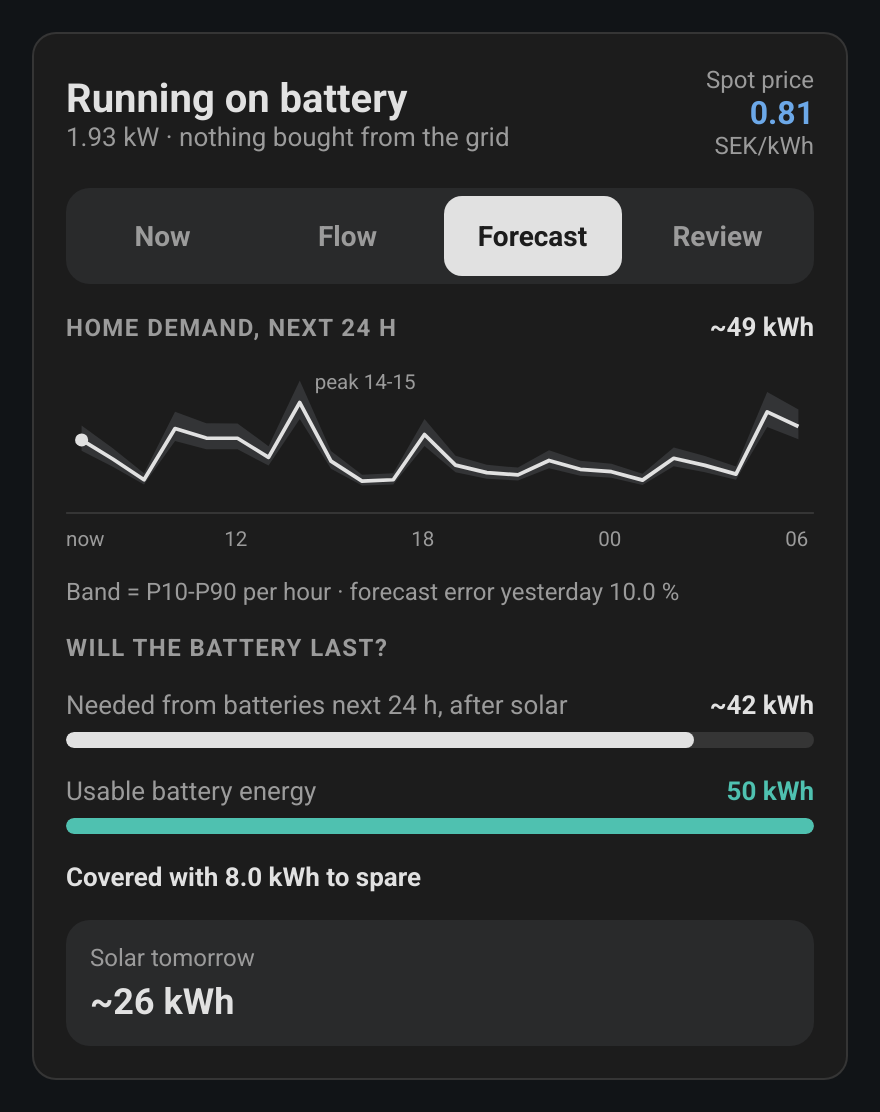
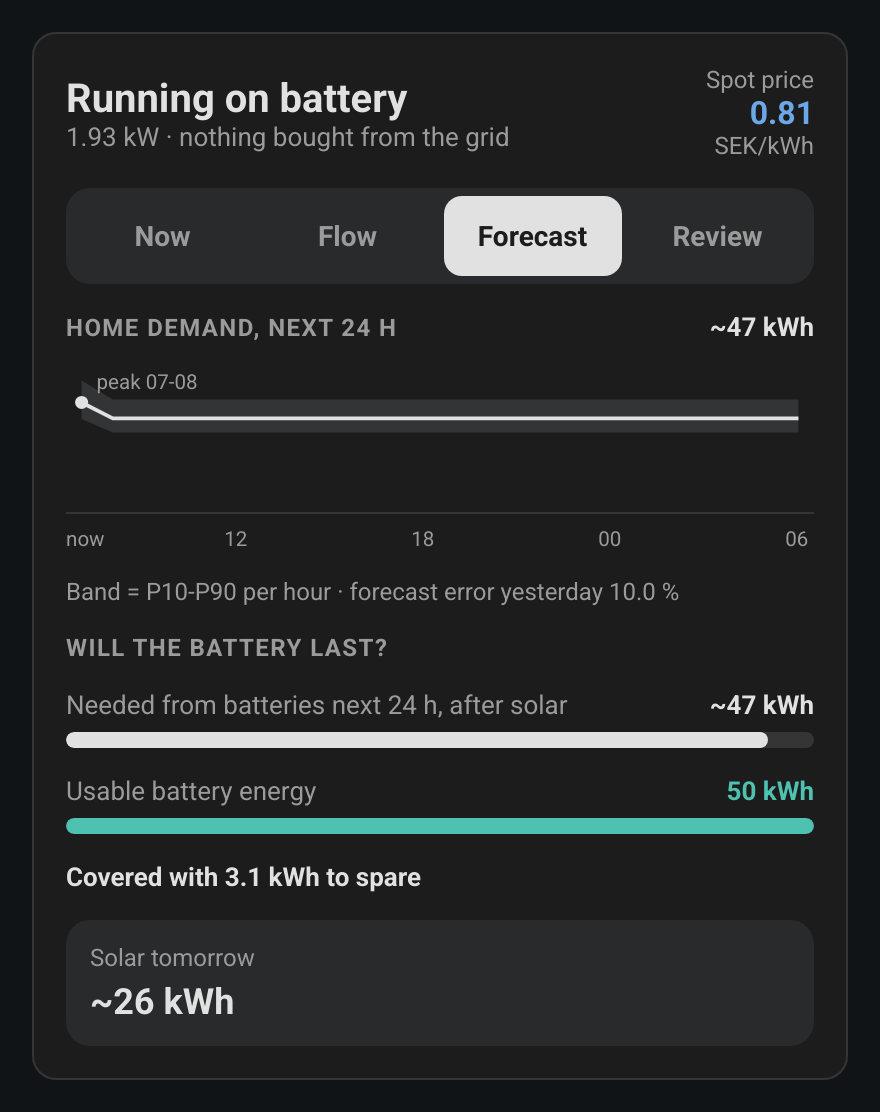
0.3.1: today's solar forecast and grid purchase/cost at the Now nodes
- solar.forecast_today: '~43 kWh forecast' under 'x kWh today'
- grid node: bought today (grid.today_import) and cost (grid.today_cost)
- README options and retaken screenshots (node icons)

diff --git a/src/views/now.ts b/src/views/now.ts
@@ -72,6 +72,10 @@ export const renderNow = (ctx: ViewContext) => {
   const bankOut = m.batteries.reduce((s, b) => s + Math.max(-b.powerW, 0), 0);
   const bankIn = m.batteries.reduce((s, b) => s + Math.max(b.powerW, 0), 0);
   const solarToday = readNumber(hass, config.solar?.today_energy);
+  const solarForecast = readNumber(hass, config.solar?.forecast_today);
+  const gridToday = readNumber(hass, config.grid?.today_import);
+  const gridCost = readNumber(hass, config.grid?.today_cost);
+  const costUnit = String(hass.states[config.grid?.today_cost ?? ""]?.attributes?.unit_of_measurement ?? "");
 
   return html`
     <div class="view">
@@ -102,6 +106,10 @@ export const renderNow = (ctx: ViewContext) => {
               <div class="node-label" style="left: ${pct(250, BOX_W)}; top: ${pct(14, BOX_H)}">
                 ${t("node.solar")}${solarToday !== null
                   ? html`<br />${t("solar.today", { energy: formatEnergy(hass, solarToday) })}`
+                  : nothing}${solarForecast !== null
+                  ? html`<br /><span @click=${() => ctx.moreInfo(config.solar?.forecast_today)}
+                      >${t("solar.forecast_today", { energy: formatEnergy(hass, solarForecast) })}</span
+                    >`
                   : nothing}
               </div>
             `
@@ -116,8 +124,16 @@ export const renderNow = (ctx: ViewContext) => {
                 <ha-icon icon="mdi:transmission-tower" style="color: ${COLORS.grid}"></ha-icon>
                 <span>${m.gridExportW > 0 ? "← " : ""}${formatPower(hass, m.gridImportW || m.gridExportW)}</span>
               </div>
-              <div class="node-label" style="left: 0; top: ${pct(216, BOX_H)}; width: ${pct(76, BOX_W)}; text-align: center">
-                ${t("node.grid")}
+              <div class="node-label grid-label" style="left: 0; top: ${pct(216, BOX_H)}; width: ${pct(76, BOX_W)}">
+                ${t("node.grid")}${gridToday !== null
+                  ? html`<br /><span @click=${() => ctx.moreInfo(config.grid?.today_import)}
+                      >${t("grid.today", { energy: formatEnergy(hass, gridToday) })}</span
+                    >`
+                  : nothing}${gridCost !== null
+                  ? html`<br /><span @click=${() => ctx.moreInfo(config.grid?.today_cost)}
+                      >${t("grid.cost_today", { cost: `${formatNumber(hass, gridCost, gridCost < 10 ? 2 : 0)}${costUnit ? ` ${costUnit}` : ""}` })}</span
+                    >`
+                  : nothing}
               </div>
             `
           : nothing}

diff --git a/tests/card.test.ts b/tests/card.test.ts
@@ -61,6 +61,31 @@ describe("card", () => {
     expect(tiles[0].textContent).toContain("EV");
   });
 
+  test("Now shows today's solar forecast and today's purchase and cost at the nodes", async () => {
+    const card = await mount(
+      {
+        ...houseConfig,
+        solar: { ...houseConfig.solar!, forecast_today: "sensor.solar_forecast_today" },
+        grid: { ...houseConfig.grid!, today_cost: "sensor.cost_today" },
+      },
+      {
+        ...eveningStates,
+        "sensor.solar_forecast_today": ["43.23", { unit_of_measurement: "kWh" }],
+        "sensor.cost_today": ["42.24", { unit_of_measurement: "SEK" }],
+      },
+    );
+    const labels = [...root(card).querySelectorAll(".node-label")].map((l) => l.textContent?.replace(/\s+/g, ""));
+    expect(labels).toContain("Solar35kWhtoday~43kWhforecast");
+    expect(labels).toContain("Grid46kWhtoday42SEK");
+  });
+
+  test("without the optional entities the node labels stay short", async () => {
+    const card = await mount({ ...houseConfig, solar: { entity: "sensor.solar" }, grid: { entity: "sensor.grid" } });
+    const labels = [...root(card).querySelectorAll(".node-label")].map((l) => l.textContent?.replace(/\s+/g, " ").trim());
+    expect(labels).toContain("Solar");
+    expect(labels).toContain("Grid");
+  });
+
   test("no running loads -> no 'Running now' section", async () => {
     const card = await mount(houseConfig);
     expect(root(card).textContent).not.toContain("Running now");

diff --git a/src/types.ts b/src/types.ts
@@ -20,6 +20,8 @@ export interface SolarConfig {
   entity: string;
   /** Energy produced today (kWh). */
   today_energy?: string;
+  /** Total forecast for today (kWh), e.g. Solcast "forecast today". Shown at the solar node. */
+  forecast_today?: string;
   /** Total forecast for tomorrow (kWh), e.g. Solcast "forecast tomorrow". */
   forecast_tomorrow?: string;
   /**
@@ -37,6 +39,8 @@ export interface GridConfig {
   price?: string;
   today_import?: string;
   today_export?: string;
+  /** Cost of the energy bought today, in its own currency unit (e.g. Tibber "accumulated cost"). */
+  today_cost?: string;
 }
 
 /** One entity, or several whose values are summed (e.g. two BMS packs). */

diff --git a/src/power-flow-card-now-flow-forecast.ts b/src/power-flow-card-now-flow-forecast.ts
@@ -13,7 +13,7 @@ import { renderNow } from "./views/now";
 import { renderReview, type ReviewHours, type ReviewState } from "./views/review";
 
 const CARD_TYPE = "power-flow-card-now-flow-forecast";
-export const VERSION = "0.3.0";
+export const VERSION = "0.3.1";
 const VIEWS: ViewName[] = ["now", "flow", "forecast", "review"];
 /** Review history is fetched again when older than this. */
 const REVIEW_MAX_AGE_MS = 5 * 60_000;

diff --git a/src/strings.ts b/src/strings.ts
@@ -20,6 +20,9 @@ const en = {
   "node.home": "Home",
   "node.batteries": "Batteries",
   "solar.today": "{energy} today",
+  "solar.forecast_today": "~{energy} forecast",
+  "grid.today": "{energy} today",
+  "grid.cost_today": "{cost}",
   "running_now": "Running now",
   "other": "Other",
   "rest_of_home": "Rest of home",

diff --git a/src/styles.ts b/src/styles.ts
@@ -132,6 +132,13 @@ export const styles = css`
     line-height: 16px;
     color: var(--nff-muted);
   }
+  .node-label span {
+    cursor: pointer;
+  }
+  .grid-label {
+    white-space: nowrap;
+    text-align: center;
+  }
   .bank {
     position: absolute;
     box-sizing: border-box;

diff --git a/README.md b/README.md
@@ -52,6 +52,7 @@ home:
 solar:
   entity: sensor.solar_power
   today_energy: sensor.solar_energy_today
+  forecast_today: sensor.solcast_pv_forecast_forecast_today
   forecast_tomorrow: sensor.solcast_pv_forecast_forecast_tomorrow
   forecast_entities:          # Solcast sensors with detailedForecast
     - sensor.solcast_pv_forecast_forecast_today
@@ -61,6 +62,7 @@ grid:
   price: sensor.nordpool_kwh_se3_sek_3_10_025
   today_import: sensor.grid_import_today
   today_export: sensor.grid_export_today
+  today_cost: sensor.tibber_accumulated_cost
 batteries:
   - name: Solar battery
     state_of_charge: sensor.growatt_battery_soc
@@ -111,11 +113,13 @@ loadcast:
 | `view_key` | Give each card its own key if you have several on one dashboard, so they remember their views separately. |
 | `solar.entity` | Solar production power. |
 | `solar.today_energy` | Energy produced today (kWh). |
+| `solar.forecast_today` | Forecast total for today (kWh), shown next to the solar node in Now. |
 | `solar.forecast_tomorrow` | Forecast total for tomorrow (kWh). |
 | `solar.forecast_entities` | Sensors with a Solcast-style `detailedForecast` attribute. Used to find the hour when solar (P10, the cautious estimate) covers the forecast demand. |
 | `grid.entity` | Grid power, positive = import. `invert_state: true` if yours is the other way round. |
 | `grid.price` | Current electricity price. |
-| `grid.today_import` / `grid.today_export` | Energy bought / sold today (kWh). |
+| `grid.today_import` / `grid.today_export` | Energy bought / sold today (kWh). Bought today is also shown under the grid node in Now. |
+| `grid.today_cost` | What today's purchases cost, e.g. Tibber's *accumulated cost*. Shown under the grid node in Now, with the sensor's own unit. |
 | `batteries[]` | `state_of_charge` (required), `entity` (power, positive = charging; one entity or a list that is summed; `invert_state` flips it) or `charge_entity` + `discharge_entity` (both positive, each one entity or a list), `name`, `icon`, `capacity_kwh` and `reserve_soc` (needed for *Will the battery last?*). |
 | `batteries[].inside_home` | `true` for a battery that charges from the home's own consumption, e.g. a UPS on a socket. Its level and power are shown, but it is left out of the flows and the Sankey, so its charging is not counted twice. |
 | `large_loads[]` | `entity`, `name`, `icon`, `color`, `threshold` (W, default 30). Shown under *Running now* only at or above the threshold. |

diff --git a/CHANGELOG.md b/CHANGELOG.md
@@ -1,5 +1,12 @@
 # Changelog
 
+## 0.3.1
+
+- Now: the solar node also shows today's forecast (new `solar.forecast_today`),
+  and the grid node shows energy bought today (`grid.today_import`) and what
+  it cost (new `grid.today_cost`). Each figure opens its sensor.
+- README screenshots retaken, now with the node icons.
+
 ## 0.3.0
 
 - New fourth view **Review**: how the last 12 or 24 hours went, from the
